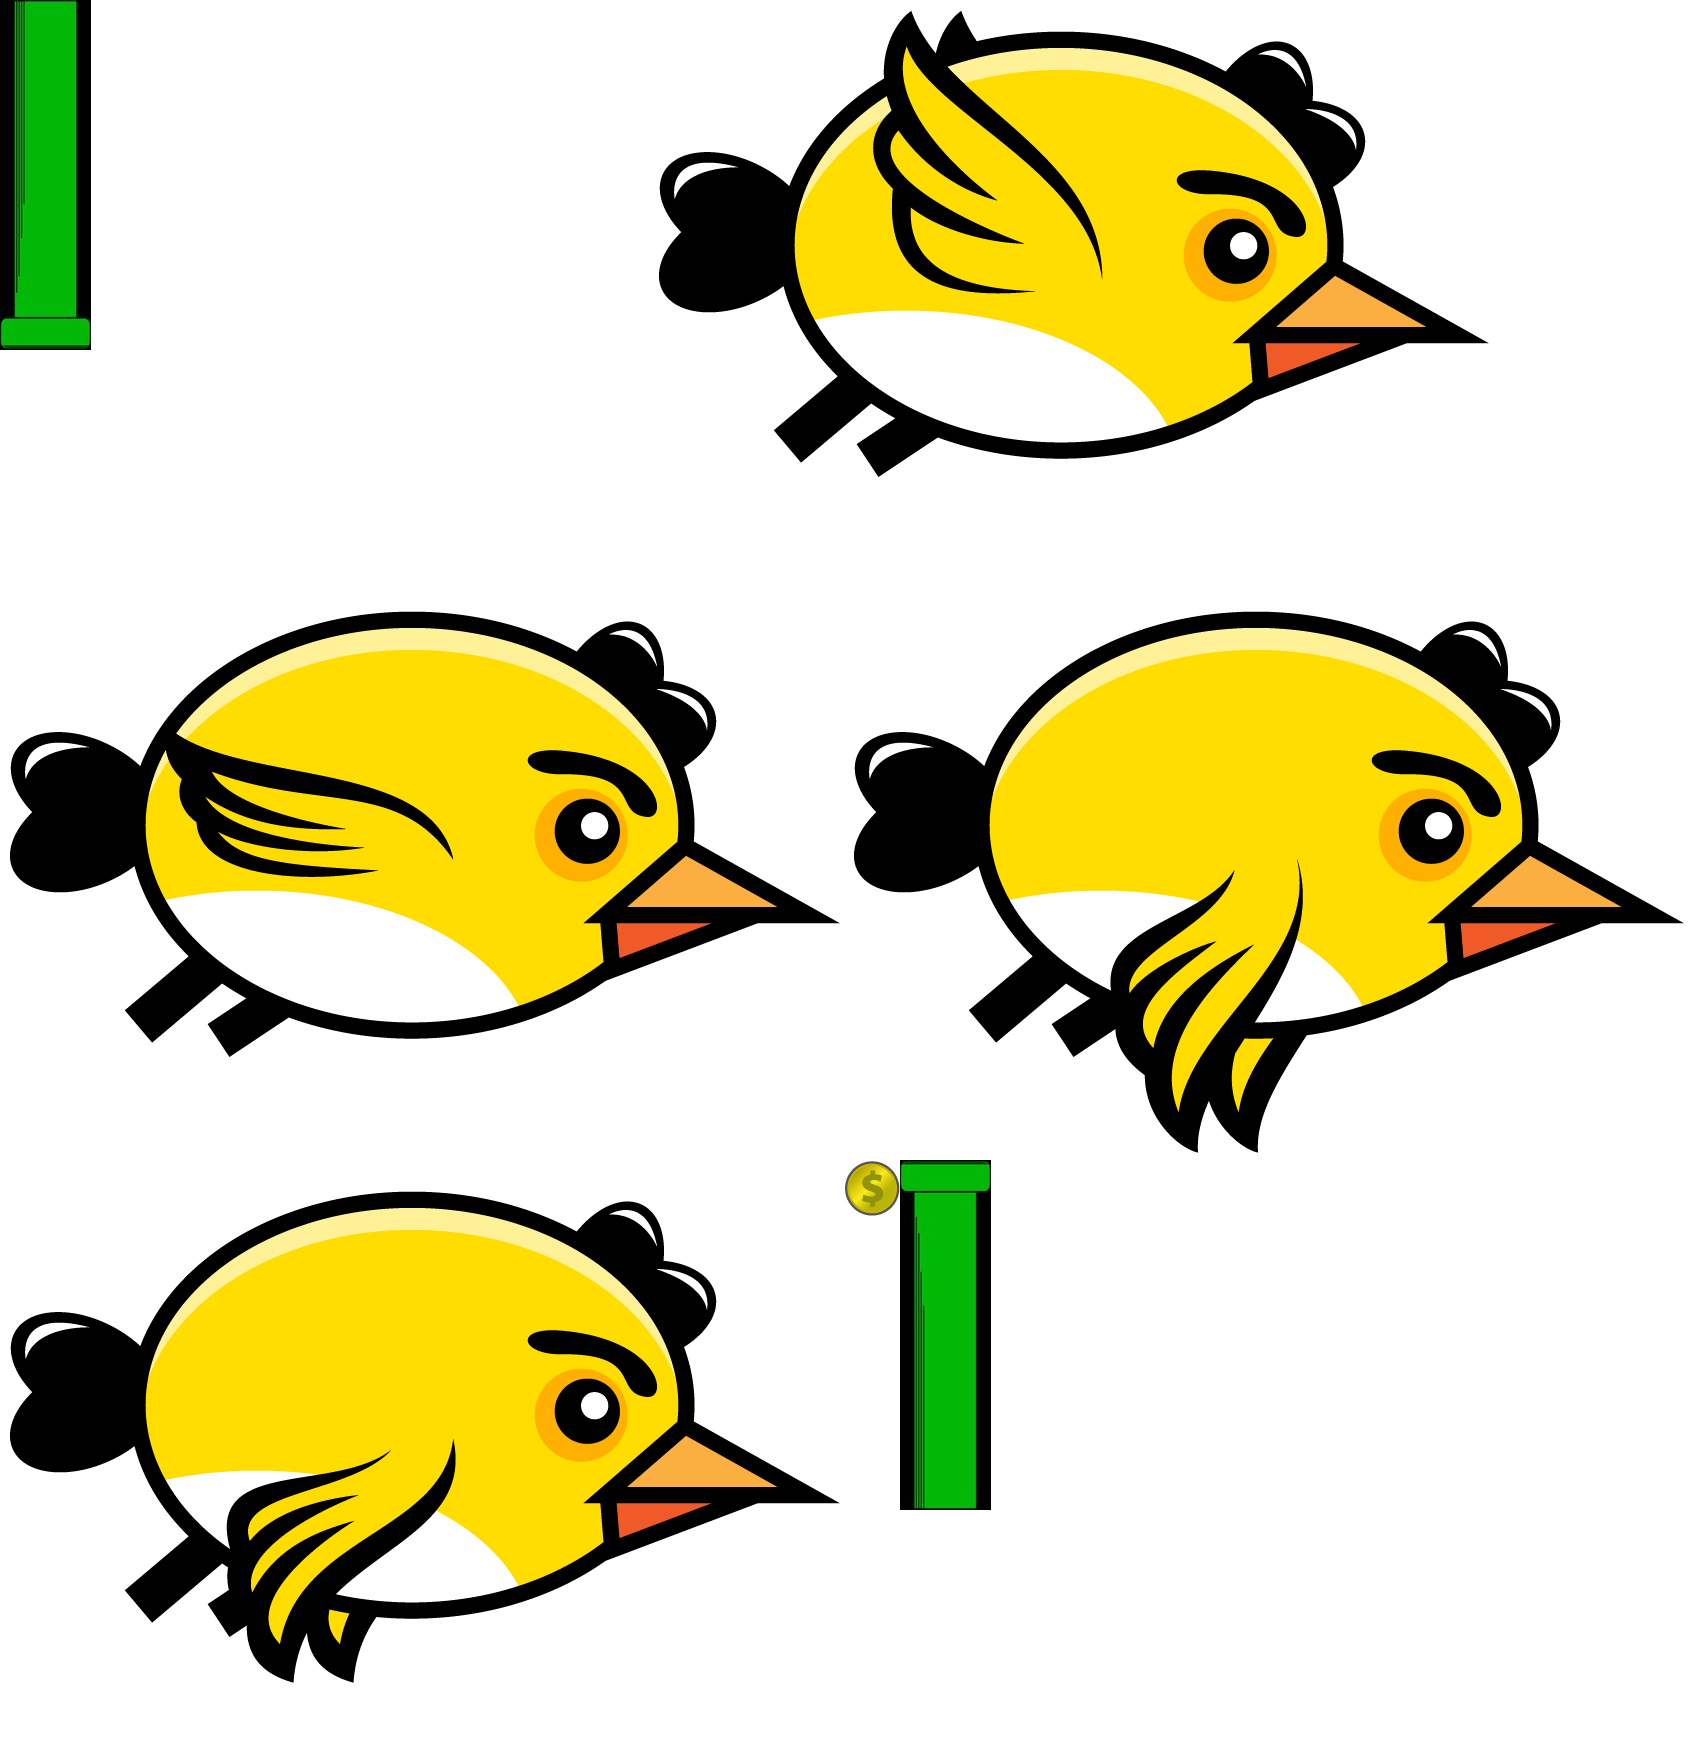
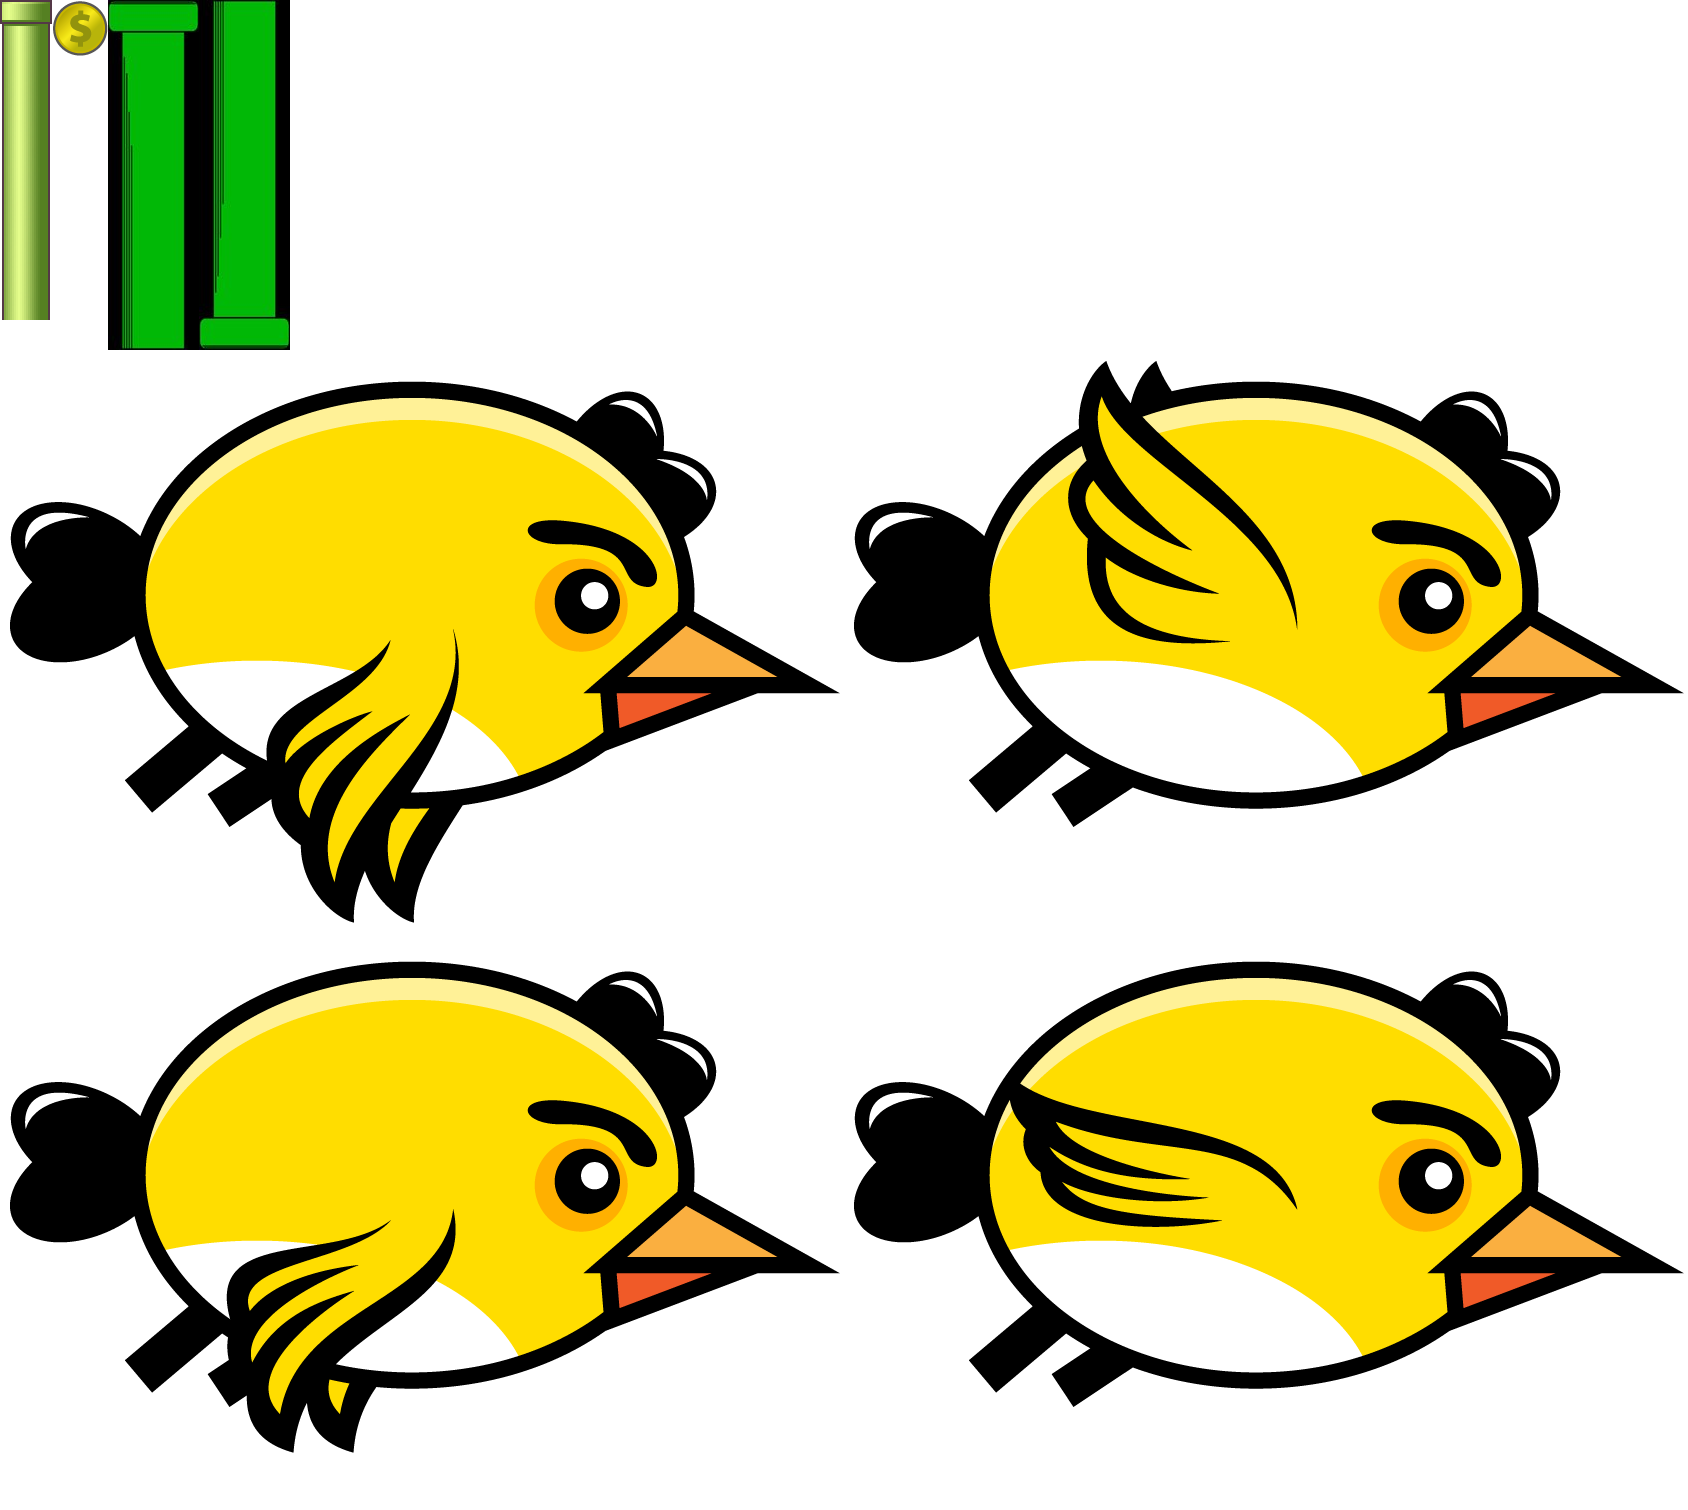
Tested spawning in green pipe

diff --git a/core/src/com/packtpub/libgdx/flyordie/game/Assets.java b/core/src/com/packtpub/libgdx/flyordie/game/Assets.java
@@ -45,17 +45,28 @@ public class Assets implements Disposable, AssetErrorListener
     	}
     }
     
-    public class AssetFrameOne
+    public class AssetPlayer
     {
-    	public final AtlasRegion frameOne;
+    	public final AtlasRegion character;
     	
-    	public AssetFrameOne (TextureAtlas atlas)
+    	public AssetPlayer (TextureAtlas atlas)
     	{
-    		frameOne = atlas.findRegion("frame-1");
+    		character = atlas.findRegion("frame-1");
+    	}
+    }
+    
+    public class AssetPipe
+    {
+    	public final AtlasRegion p;
+    	
+    	public AssetPipe (TextureAtlas atlas)
+    	{
+    		p = atlas.findRegion("pipe-green");
     	}
     }
 	
-	public AssetFrameOne bird;
+    public AssetPipe green;
+	public AssetPlayer bird;
 	public AssetBottomPipe bottom;
 	public AssetGoldCoin goldCoin;
 	public AssetTopPipe top;
@@ -93,7 +104,8 @@ public class Assets implements Disposable, AssetErrorListener
     	    }
     	    
     	    // create game resource objects
-    	    bird = new AssetFrameOne(atlas);
+    	    green = new AssetPipe(atlas);
+    	    bird = new AssetPlayer(atlas);
     	    top = new AssetTopPipe(atlas);
     	    goldCoin = new AssetGoldCoin(atlas);
     	    bottom = new AssetBottomPipe(atlas);

diff --git a/core/src/com/packtpub/libgdx/flyordie/game/WorldController.java b/core/src/com/packtpub/libgdx/flyordie/game/WorldController.java
@@ -39,8 +39,9 @@ public class WorldController extends InputAdapter
 		testSprites = new Sprite[5]; 
 				 
 		// Create a list of texture regions 
-		Array<TextureRegion> regions = new Array<TextureRegion>(); 
-		regions.add(Assets.instance.bird.frameOne); 
+		Array<TextureRegion> regions = new Array<TextureRegion>();
+		regions.add(Assets.instance.green.p);
+		regions.add(Assets.instance.bird.character); 
 		regions.add(Assets.instance.top.topPipe); 
 		regions.add(Assets.instance.goldCoin.goldCoin);
 		regions.add(Assets.instance.bottom.bottomPipe);
